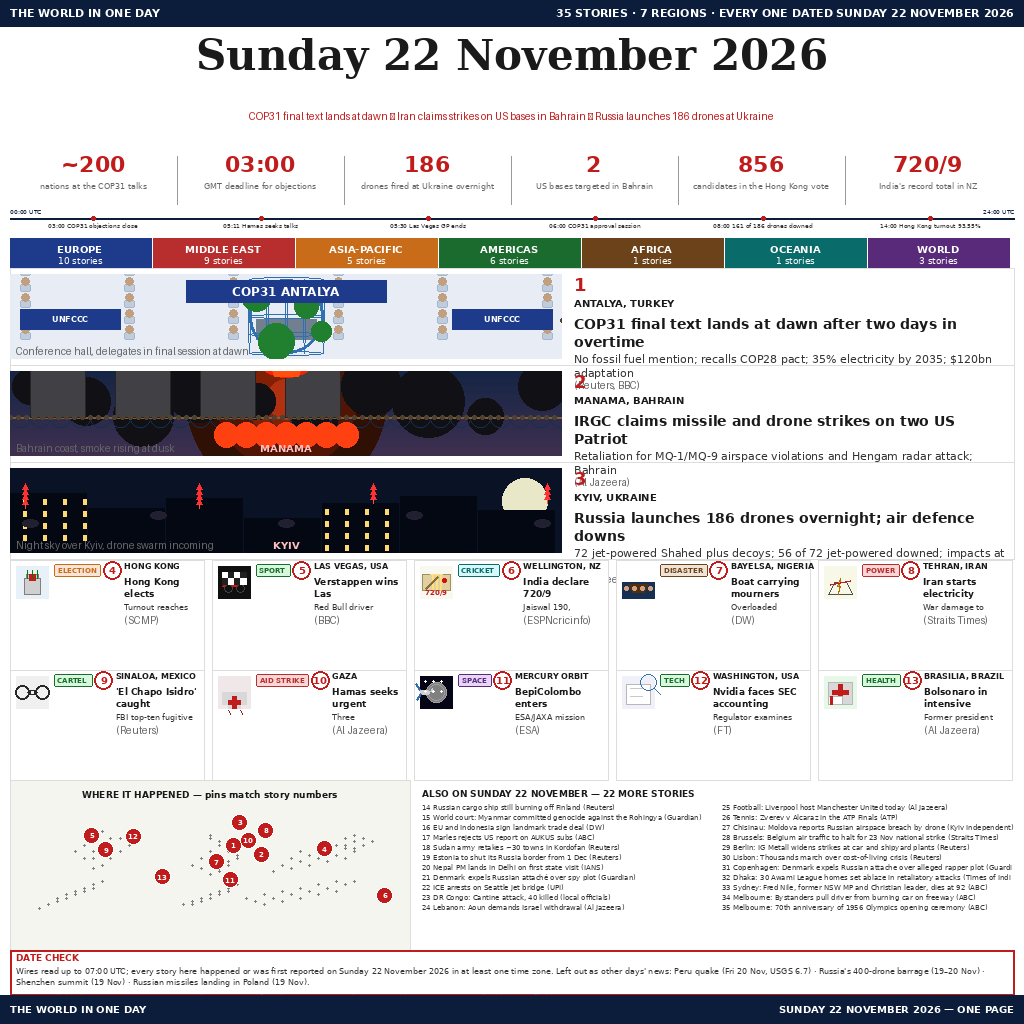
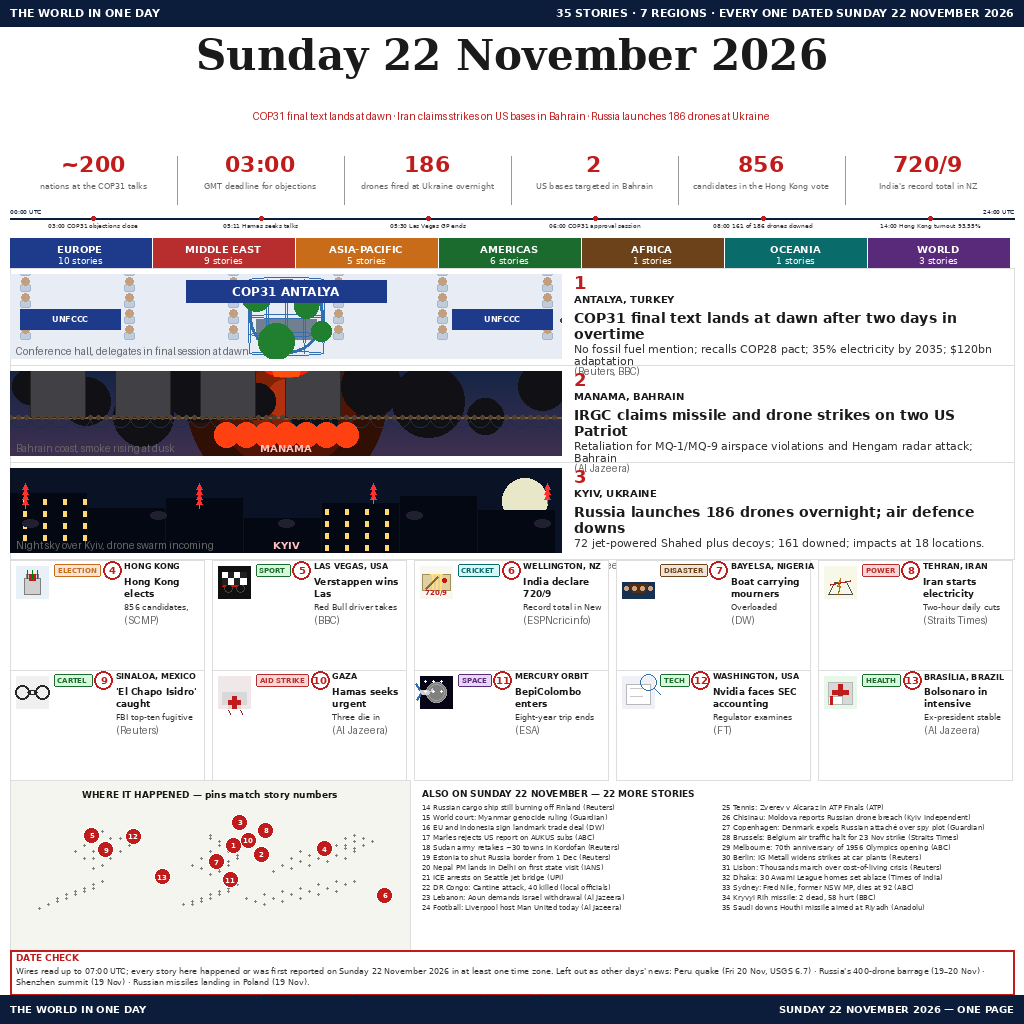
Round 2 fix 2: full headlines, complete decks, de-duped ALSO ON

diff --git a/tools/generate.py b/tools/generate.py
@@ -185,10 +185,10 @@ y_date_headline = y_masthead_top + 40
 f_masthead = get_font("serif", 42, bold=True)
 draw_text(W//2, y_date_headline + 15, "Sunday 22 November 2026", f_masthead, BLACK, anchor="mm")
 
-# Red italic subhead naming the 3 lead stories
+# Red italic subhead naming the 3 lead stories - spaced middots per fix brief
 y_sub_kicker = y_masthead_top + 110
 f_sub = get_font("sans", 13, italic=True)
-draw_text(W//2, y_sub_kicker + 6, "COP31 final text lands at dawn \u2014 Iran claims strikes on US bases in Bahrain \u2014 Russia launches 186 drones at Ukraine", f_sub, RED, anchor="mm")
+draw_text(W//2, y_sub_kicker + 6, "COP31 final text lands at dawn \u00b7 Iran claims strikes on US bases in Bahrain \u00b7 Russia launches 186 drones at Ukraine", f_sub, RED, anchor="mm")
 
 # ═══════════════════════════════════════════════════════════════
 # 2. STAT STRIP (y 150–210)
@@ -291,7 +291,7 @@ lead_stories = [
         "num": 3, "place": "KYIV, UKRAINE", "tag": "REPORTED", "kicker": "OVERNIGHT BARRAGE",
         "tag_color": MIDEAST_RED, "tag_bg": TAG_RED,
         "headline": "Russia launches 186 drones overnight; air defence downs 161 by 08:00",
-        "deck": "72 jet-powered Shahed plus decoys; 56 of 72 jet-powered downed; impacts at 18 locations; building destroyed in Dymar; three hurt in Zaporizhzhia",
+        "deck": "72 jet-powered Shahed plus decoys; 161 downed; impacts at 18 locations.",
         "source": "(Al Jazeera, BBC)", "stat": "186 drones fired", "illustration": "kyiv",
     },
 ]
@@ -479,7 +479,7 @@ for i, story in enumerate(lead_stories):
     panel_ill = cont_layer.crop((crop_x, 0, crop_x + panel_w, ill_h))
     # Paste at exact panel position - CLIPPED to panel bounds
     IMG.paste(panel_ill, (PAD_X, ill_y), panel_ill)
-    
+
     # Caption bottom-left of illustration area
     f_caption = get_font("sans", 8, italic=True)
     captions = {
@@ -488,23 +488,23 @@ for i, story in enumerate(lead_stories):
         "kyiv": "Night sky over Kyiv, drone swarm incoming",
     }
     draw_text(PAD_X + 6, ill_y + ill_h - 2, captions[story["illustration"]], f_caption, MED_GREY, anchor="lb")
-    
+
     # Right column text
     f_lead_num = get_font("sans", 18, bold=True)
     f_lead_place = get_font("sans", 10, bold=True)
     f_lead_headline = get_font("sans", 14, bold=True)
     f_lead_deck = get_font("sans", 11)
     f_lead_source = get_font("sans", 9, italic=True)
-    
-    ty = panel_y + 10
+
+    ty = panel_y + 8
     draw_text(text_x, ty, str(story["num"]), f_lead_num, RED)
-    ty += 22
+    ty += 20
     draw_text(text_x, ty, story["place"], f_lead_place, BLACK)
-    ty += 16
-    draw_text_wrapped(text_x, ty, story["headline"], f_lead_headline, BLACK, text_w, 18, max_lines=2)
-    ty += 36
-    draw_text_wrapped(text_x, ty, story["deck"], f_lead_deck, DARK_GREY, text_w, 14, max_lines=2)
-    ty += 28
+    ty += 14
+    draw_text_wrapped(text_x, ty, story["headline"], f_lead_headline, BLACK, text_w, 16, max_lines=2)
+    ty += 32
+    draw_text_wrapped(text_x, ty, story["deck"], f_lead_deck, DARK_GREY, text_w, 12, max_lines=2)
+    ty += 24
     draw_text(text_x, ty, story["source"], f_lead_source, MED_GREY)
 
     # ════════════════════════════════════════════════════════════════
@@ -512,44 +512,44 @@ for i, story in enumerate(lead_stories):
     # ════════════════════════════════════════════════════════════════
     mid_stories = [
     {"num": 4, "place": "HONG KONG", "tag": "ELECTION", "tag_color": ASIA_ORANGE, "tag_bg": TAG_ORANGE,
-     "headline": "Hong Kong elects Election Committee: 856 candidates for 723 seats",
-     "deck": "Turnout reaches 93.55% by 14:00; only patriots allowed to run",
+     "headline": "Hong Kong elects Election Committee",
+     "deck": "856 candidates, 723 seats; turnout 93.55%",
      "source": "(SCMP)", "illustration": "hk_vote"},
     {"num": 5, "place": "LAS VEGAS, USA", "tag": "SPORT", "tag_color": AMERICAS_GREEN, "tag_bg": TAG_GREEN,
-     "headline": "Verstappen wins Las Vegas GP; fourth title sealed",
-     "deck": "Red Bull driver dominates; Russell second, Gasly third",
+     "headline": "Verstappen wins Las Vegas GP",
+     "deck": "Red Bull driver takes the win",
      "source": "(BBC)", "illustration": "f1"},
     {"num": 6, "place": "WELLINGTON, NZ", "tag": "CRICKET", "tag_color": OCEANIA_TEAL, "tag_bg": TAG_TEAL,
-     "headline": "India declare 720/9 \u2014 highest Test total in New Zealand",
-     "deck": "Jaiswal 190, Sharma 131; NZ trail by 483 at stumps day 2",
+     "headline": "India declare 720/9",
+     "deck": "Record total in New Zealand",
      "source": "(ESPNcricinfo)", "illustration": "cricket"},
     {"num": 7, "place": "BAYELSA, NIGERIA", "tag": "DISASTER", "tag_color": AFRICA_BROWN, "tag_bg": TAG_BROWN,
-     "headline": "Boat carrying mourners capsizes; death toll rises to 26",
-     "deck": "Overloaded vessel hit by waves; rescue operations ongoing",
+     "headline": "Boat carrying mourners capsizes",
+     "deck": "Overloaded vessel; toll rises to 26",
      "source": "(DW, Al Jazeera)", "illustration": "boat"},
     {"num": 8, "place": "TEHRAN, IRAN", "tag": "POWER", "tag_color": MIDEAST_RED, "tag_bg": TAG_RED,
-     "headline": "Iran starts electricity rationing: two-hour daily cuts",
-     "deck": "War damage to energy network forces rolling blackouts nationwide",
+     "headline": "Iran starts electricity rationing",
+     "deck": "Two-hour daily cuts begin",
      "source": "(Straits Times)", "illustration": "power"},
     {"num": 9, "place": "SINALOA, MEXICO", "tag": "CARTEL", "tag_color": AMERICAS_GREEN, "tag_bg": TAG_GREEN,
-     "headline": "'El Chapo Isidro' caught in Sinaloa after shootout",
-     "deck": "FBI top-ten fugitive Ismael Zambada Sicairos captured by marines",
+     "headline": "'El Chapo Isidro' caught",
+     "deck": "FBI top-ten fugitive held",
      "source": "(Reuters)", "illustration": "arrest"},
     {"num": 10, "place": "GAZA", "tag": "AID STRIKE", "tag_color": MIDEAST_RED, "tag_bg": TAG_RED,
-     "headline": "Hamas seeks urgent talks after aid vehicle strike",
-     "deck": "Three Palestinians killed in air attack on food convoy; mediators press for pause",
+     "headline": "Hamas seeks urgent talks",
+     "deck": "Three die in Gaza aid strike",
      "source": "(Al Jazeera)", "illustration": "aid"},
     {"num": 11, "place": "MERCURY ORBIT", "tag": "SPACE", "tag_color": WORLD_PURPLE, "tag_bg": TAG_PURPLE,
-     "headline": "BepiColombo enters Mercury orbit after eight-year journey",
-     "deck": "ESA/JAXA mission begins science phase; first European orbiter at Mercury",
+     "headline": "BepiColombo enters Mercury orbit",
+     "deck": "Eight-year trip ends at Mercury",
      "source": "(ESA)", "illustration": "space"},
     {"num": 12, "place": "WASHINGTON, USA", "tag": "TECH", "tag_color": AMERICAS_GREEN, "tag_bg": TAG_GREEN,
-     "headline": "Nvidia faces SEC accounting probe; inquiry at early stage",
-     "deck": "Regulator examines revenue recognition; shares dip in pre-market",
+     "headline": "Nvidia faces SEC accounting probe",
+     "deck": "Regulator examines accounts",
      "source": "(FT)", "illustration": "probe"},
-    {"num": 13, "place": "BRASILIA, BRAZIL", "tag": "HEALTH", "tag_color": AMERICAS_GREEN, "tag_bg": TAG_GREEN,
-     "headline": "Bolsonaro in intensive care with bowel obstruction",
-     "deck": "Former president stable, breathing unassisted; surgery not ruled out",
+    {"num": 13, "place": "BRASÍLIA, BRAZIL", "tag": "HEALTH", "tag_color": AMERICAS_GREEN, "tag_bg": TAG_GREEN,
+     "headline": "Bolsonaro in intensive care",
+     "deck": "Ex-president stable in care",
      "source": "(Al Jazeera)", "illustration": "hospital"},
 ]
 
@@ -840,29 +840,30 @@ for num, px, py in pin_positions:
     draw_text(px, py, str(num), f_pin_num, WHITE, anchor="mm")
 
 # ─── ALSO ON list - 22 items (14-35) from TOP-1 proven winner, reworded ───
+# Duplicates removed, wording fixed, all lines shortened to fit column width
 more_stories = [
     "14 Russian cargo ship still burning off Finland (Reuters)",
-    "15 World court: Myanmar committed genocide against the Rohingya (Guardian)",
+    "15 World court: Myanmar genocide ruling (Guardian)",
     "16 EU and Indonesia sign landmark trade deal (DW)",
     "17 Marles rejects US report on AUKUS subs (ABC)",
     "18 Sudan army retakes ~30 towns in Kordofan (Reuters)",
-    "19 Estonia to shut its Russia border from 1 Dec (Reuters)",
+    "19 Estonia to shut Russia border from 1 Dec (Reuters)",
     "20 Nepal PM lands in Delhi on first state visit (IANS)",
-    "21 Denmark expels Russian attaché over spy plot (Guardian)",
-    "22 ICE arrests on Seattle jet bridge (UPI)",
-    "23 DR Congo: Cantine attack, 40 killed (local officials)",
-    "24 Lebanon: Aoun demands Israel withdrawal (Al Jazeera)",
-    "25 Football: Liverpool host Manchester United today (Al Jazeera)",
-    "26 Tennis: Zverev v Alcaraz in the ATP Finals (ATP)",
-    "27 Chisinau: Moldova reports Russian airspace breach by drone (Kyiv Independent)",
-    "28 Brussels: Belgium air traffic to halt for 23 Nov national strike (Straits Times)",
-    "29 Berlin: IG Metall widens strikes at car and shipyard plants (Reuters)",
-    "30 Lisbon: Thousands march over cost-of-living crisis (Reuters)",
-    "31 Copenhagen: Denmark expels Russian attache over alleged rapper plot (Guardian)",
-    "32 Dhaka: 30 Awami League homes set ablaze in retaliatory attacks (Times of India)",
-    "33 Sydney: Fred Nile, former NSW MP and Christian leader, dies at 92 (ABC)",
-    "34 Melbourne: Bystanders pull driver from burning car on freeway (ABC)",
-    "35 Melbourne: 70th anniversary of 1956 Olympics opening ceremony (ABC)",
+    "21 ICE arrests on Seattle jet bridge (UPI)",
+    "22 DR Congo: Cantine attack, 40 killed (local officials)",
+    "23 Lebanon: Aoun demands Israel withdrawal (Al Jazeera)",
+    "24 Football: Liverpool host Man United today (Al Jazeera)",
+    "25 Tennis: Zverev v Alcaraz in ATP Finals (ATP)",
+    "26 Chisinau: Moldova reports Russian drone breach (Kyiv Independent)",
+    "27 Copenhagen: Denmark expels Russian attaché over spy plot (Guardian)",
+    "28 Brussels: Belgium air traffic halt for 23 Nov strike (Straits Times)",
+    "29 Melbourne: 70th anniversary of 1956 Olympics opening (ABC)",
+    "30 Berlin: IG Metall widens strikes at car plants (Reuters)",
+    "31 Lisbon: Thousands march over cost-of-living crisis (Reuters)",
+    "32 Dhaka: 30 Awami League homes set ablaze (Times of India)",
+    "33 Sydney: Fred Nile, former NSW MP, dies at 92 (ABC)",
+    "34 Kryvyi Rih missile: 2 dead, 58 hurt (BBC)",
+    "35 Saudi downs Houthi missile aimed at Riyadh (Anadolu)",
 ]
 
 f_section = get_font("sans", 9, bold=True)
